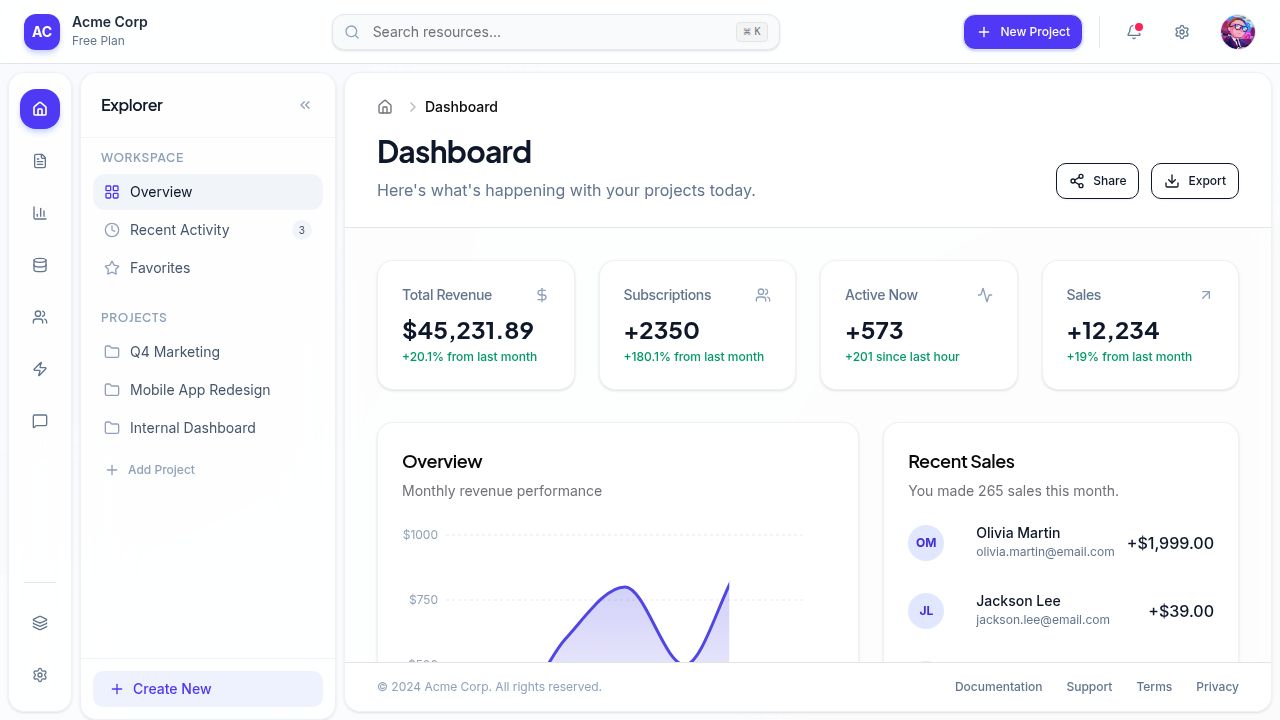
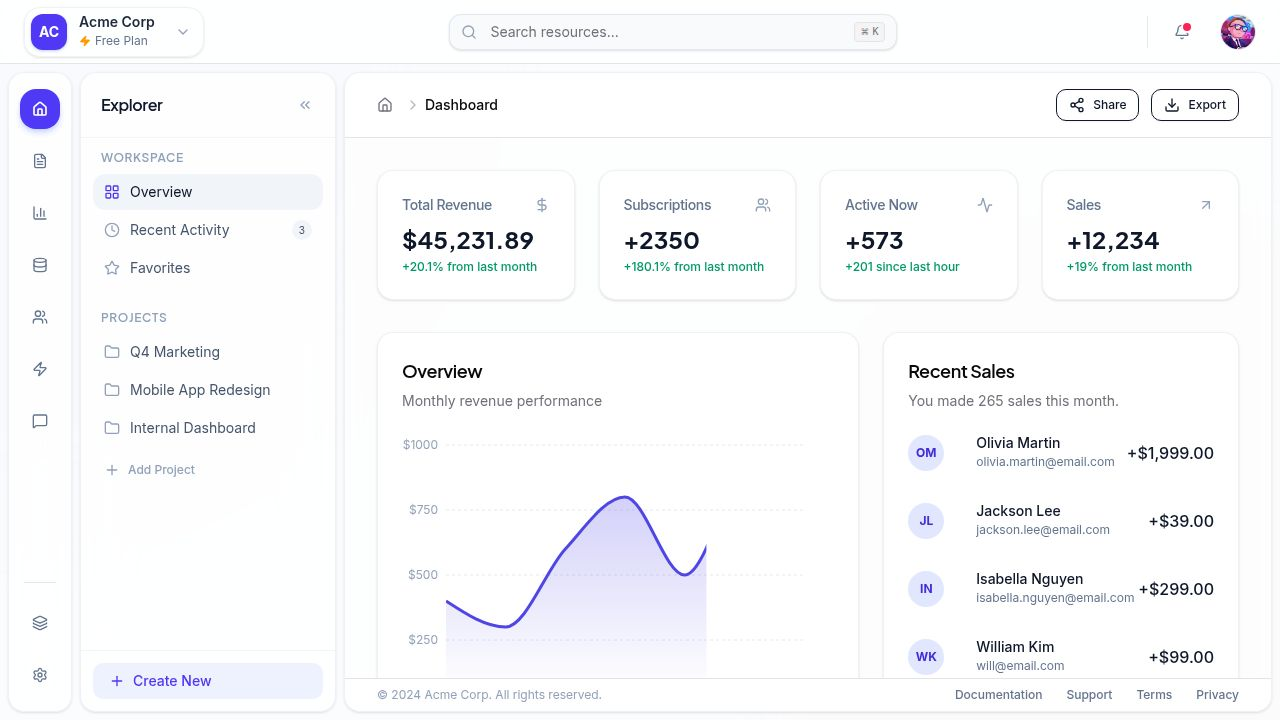
Add visual indicators and styling to the workspace dropdown menu
Update DashboardMainHeader to include ChevronDown and Zap icons, and apply new styling to the DropdownMenuTrigger for a bordered look with an icon next to "Free Plan".

Replit-Commit-Author: Agent
Replit-Commit-Session-Id: cc54ae4f-d715-45ef-8f3e-37e930edf76b
Replit-Commit-Checkpoint-Type: full_checkpoint
Replit-Commit-Event-Id: 10f8381b-64d4-48d5-a95b-16bcf4765123
Replit-Commit-Screenshot-Url: https://storage.googleapis.com/screenshot-production-us-central1/450c3c1d-55ad-4255-a0da-f802d23033f7/cc54ae4f-d715-45ef-8f3e-37e930edf76b/bbyfRQ2
Replit-Helium-Checkpoint-Created: true

diff --git a/client/src/components/dashboard/headers/DashboardMainHeader.tsx b/client/src/components/dashboard/headers/DashboardMainHeader.tsx
@@ -1,5 +1,5 @@
 
-import { Bell, Search, Settings, User, ArrowLeft, Plus, Check } from "lucide-react";
+import { Bell, Search, Settings, User, ArrowLeft, Plus, Check, ChevronDown, Zap } from "lucide-react";
 import { Avatar, AvatarFallback, AvatarImage } from "@/components/ui/avatar";
 import { Button } from "@/components/ui/button";
 import {
@@ -32,14 +32,18 @@ export function DashboardMainHeader() {
       <div className="flex items-center gap-4">
         <DropdownMenu>
           <DropdownMenuTrigger asChild>
-            <div className="flex items-center gap-3 group cursor-pointer hover:bg-slate-100/50 p-1 -ml-1 pr-3 rounded-lg transition-colors">
-              <div className="flex h-9 w-9 items-center justify-center rounded-lg bg-indigo-600 font-bold text-sm text-white shadow-md shadow-indigo-200 group-hover:shadow-indigo-300 transition-all">
+            <div className="flex items-center gap-3 group cursor-pointer hover:bg-slate-50 border border-slate-200/60 p-1.5 pr-3 rounded-xl transition-all shadow-sm hover:shadow-md">
+              <div className="flex h-9 w-9 items-center justify-center rounded-lg bg-indigo-600 font-bold text-sm text-white shadow-sm shadow-indigo-200 group-hover:shadow-indigo-300 transition-all">
                 AC
               </div>
-              <div className="flex flex-col text-left">
+              <div className="flex flex-col text-left mr-2">
                 <span className="font-semibold text-sm text-slate-800 leading-none group-hover:text-indigo-600 transition-colors">Acme Corp</span>
-                <span className="text-slate-500 text-xs mt-1">Free Plan</span>
+                <div className="flex items-center gap-1 mt-1">
+                  <Zap className="h-3 w-3 text-amber-500 fill-amber-500" />
+                  <span className="text-slate-500 text-xs">Free Plan</span>
+                </div>
               </div>
+              <ChevronDown className="h-4 w-4 text-slate-400 group-hover:text-slate-600 transition-colors" />
             </div>
           </DropdownMenuTrigger>
           <DropdownMenuContent align="start" className="w-[300px] p-0" sideOffset={8}>
